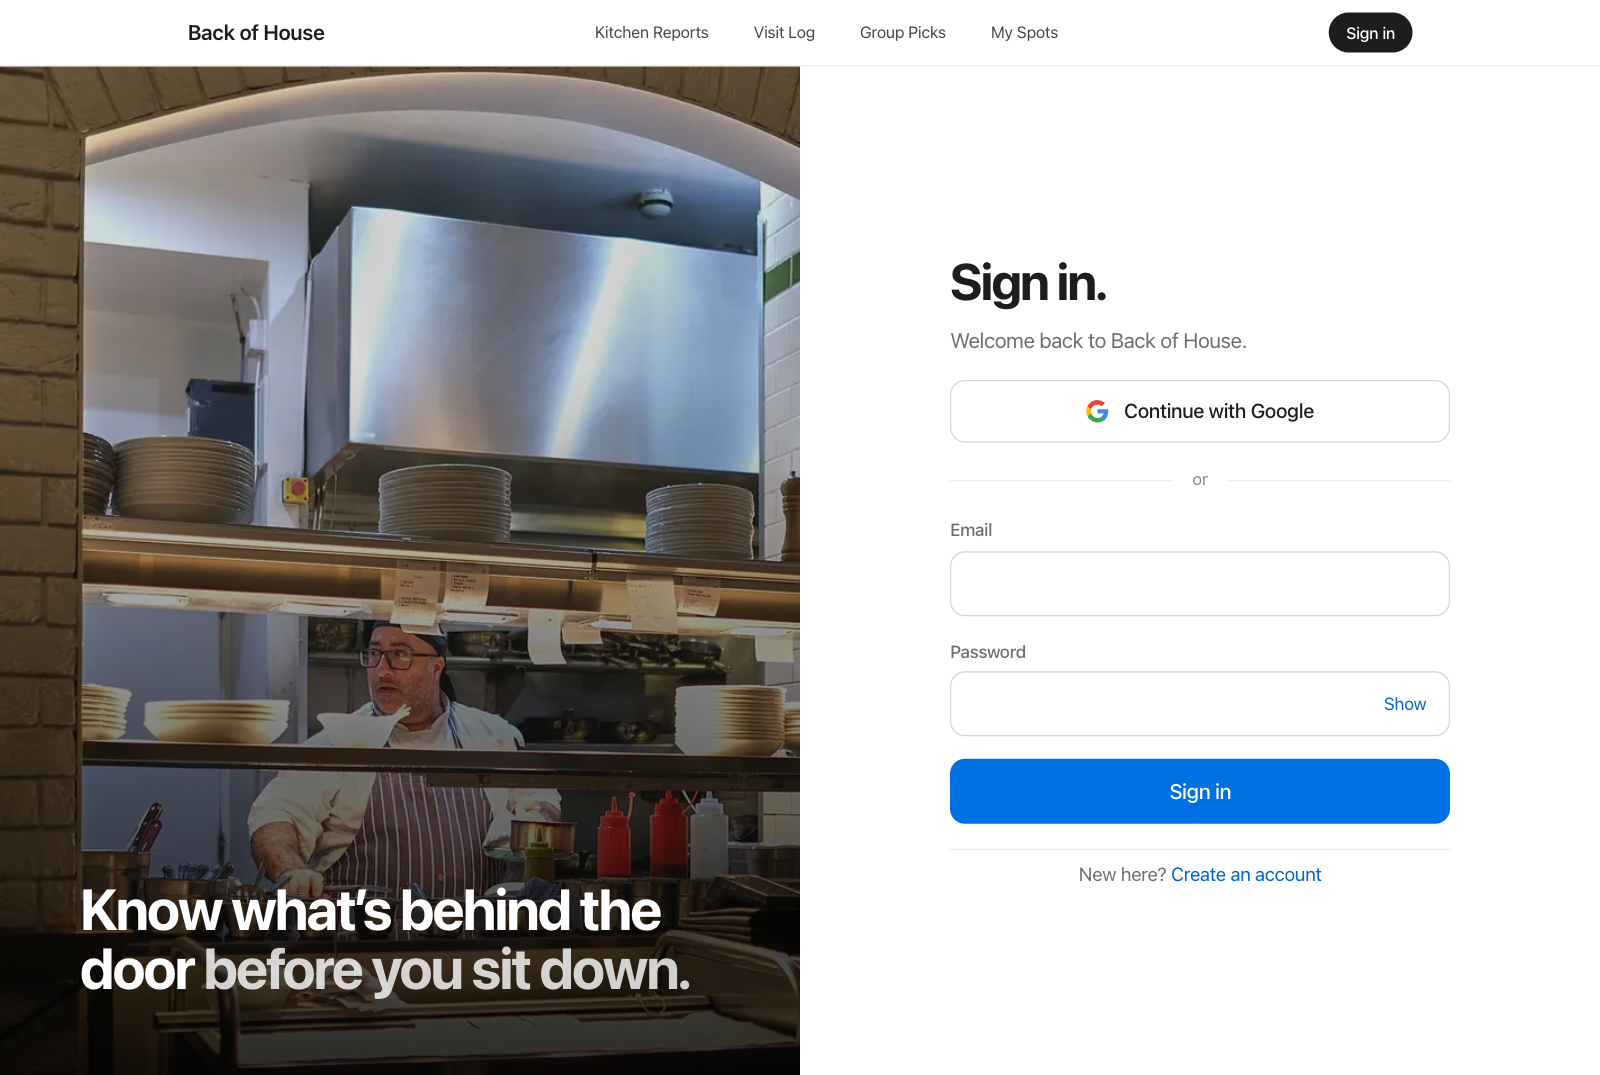
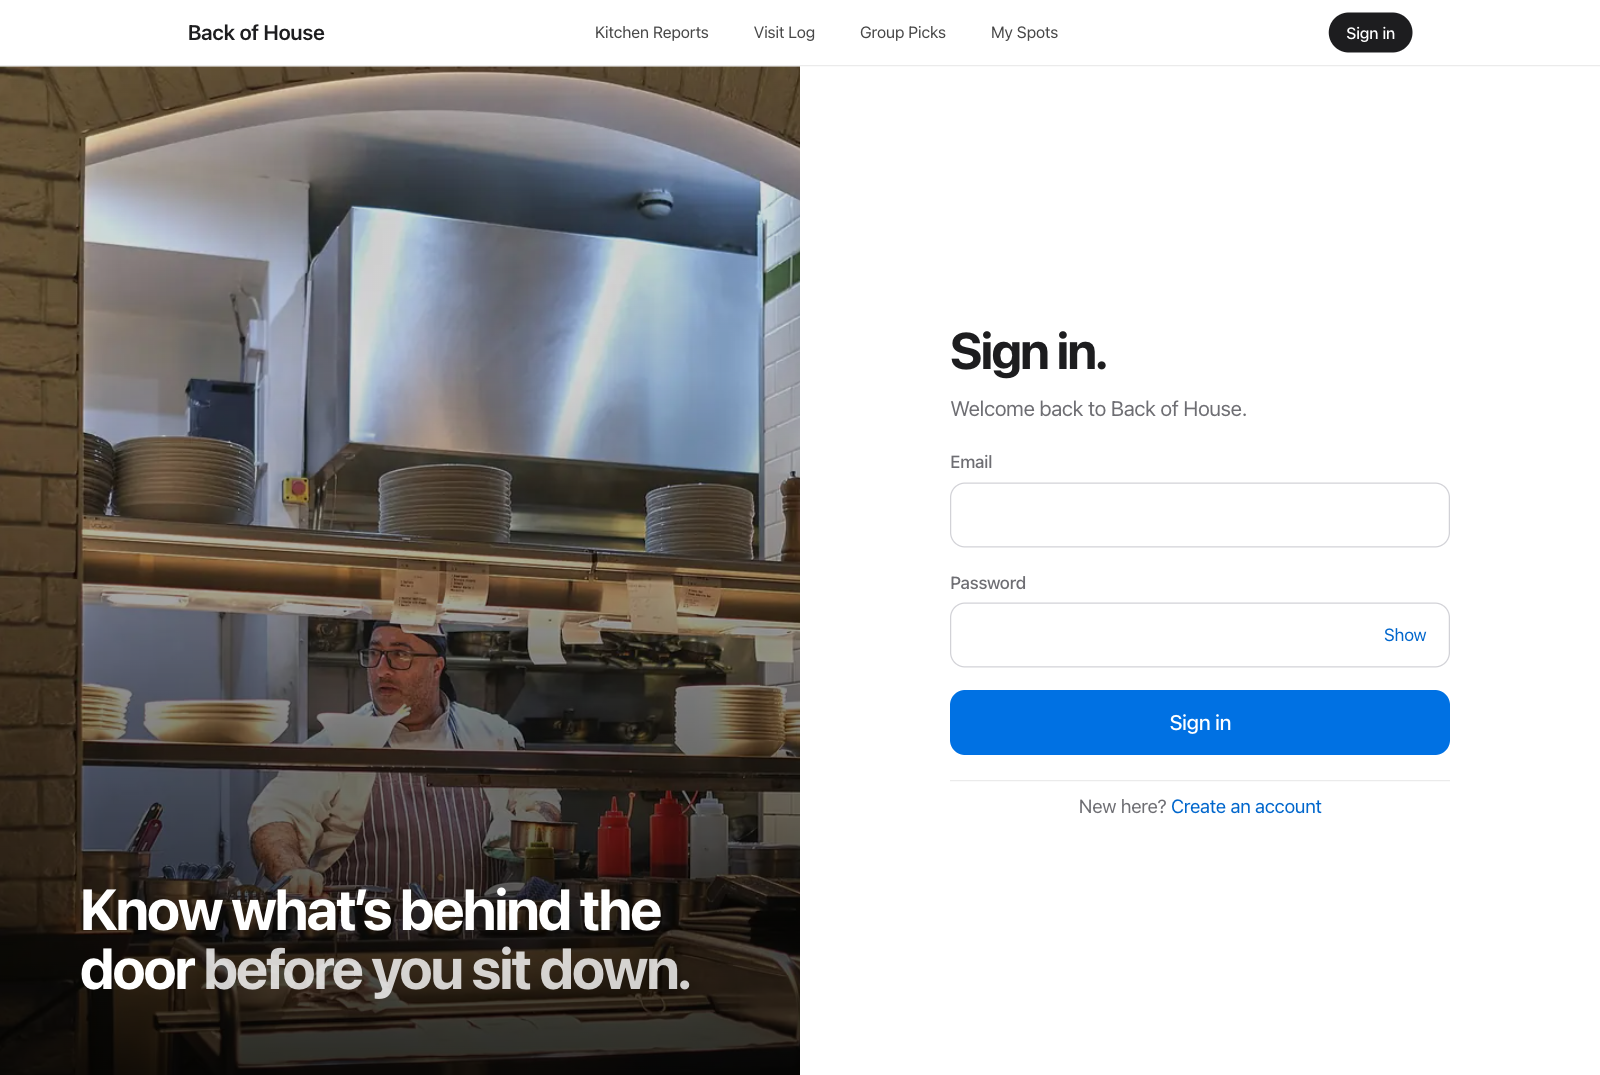
refactor(auth): remove Google sign-in; email + code only

diff --git a/backend/src/features/auth/auth.routes.js b/backend/src/features/auth/auth.routes.js
@@ -1,11 +1,10 @@
 import bcrypt from 'bcryptjs';
 import { Router } from 'express';
 
-import { parseEmailOnly, parseRegister, parseVerify, safeNext } from './auth.validation.js';
-import { authorizationUrl, newState, userFromGoogleCode } from './google.js';
+import { parseEmailOnly, parseRegister, parseVerify } from './auth.validation.js';
 import { createUser, findByEmail, toPublicUser, updateUser } from './users.repository.js';
 import { checkVerificationCode, sendVerificationCode } from './verification.js';
-import { isGoogleEnabled, isMailEnabled } from '../../config/env.js';
+import { isMailEnabled } from '../../config/env.js';
 import passport from '../../config/passport.js';
 import { HttpError, conflict, unauthorized } from '../../lib/errors.js';
 
@@ -29,7 +28,7 @@ async function sendCodeUnlessRecent(user) {
 
 // Which sign-in options this server supports, so the UI can adapt.
 router.get('/providers', (_req, res) => {
-  res.json({ google: isGoogleEnabled, emailDelivery: isMailEnabled ? 'email' : 'console' });
+  res.json({ emailDelivery: isMailEnabled ? 'email' : 'console' });
 });
 
 // Create (or re-create, if never verified) an email account and send a code. No login yet.
@@ -105,30 +104,6 @@ router.post('/logout', (req, res, next) => {
 // Returns { user: null } when logged out (not a 401) so the app can boot quietly.
 router.get('/me', (req, res) => {
   res.json({ user: req.user ?? null });
-});
-
-// ---- Google
-router.get('/google', (req, res) => {
-  if (!isGoogleEnabled) return res.redirect('/login?error=google-unavailable');
-  const state = newState();
-  req.session.oauth = { state, next: safeNext(req.query.next) };
-  return req.session.save(() => res.redirect(authorizationUrl(state)));
-});
-
-router.get('/google/callback', async (req, res) => {
-  const saved = req.session.oauth;
-  delete req.session.oauth;
-  if (!saved || req.query.state !== saved.state || typeof req.query.code !== 'string') {
-    return res.redirect('/login?error=google');
-  }
-  try {
-    const user = await userFromGoogleCode(req.query.code);
-    await logIn(req, toPublicUser(user));
-    return res.redirect(saved.next);
-  } catch (err) {
-    console.error('Google sign-in failed:', err.message);
-    return res.redirect('/login?error=google');
-  }
 });
 
 export default router;

diff --git a/frontend/src/features/auth/pages/LoginPage.jsx b/frontend/src/features/auth/pages/LoginPage.jsx
@@ -1,32 +1,22 @@
 import { useState } from 'react';
-import { Link, useLocation, useNavigate, useSearchParams } from 'react-router-dom';
+import { Link, useLocation, useNavigate } from 'react-router-dom';
 
 import { useAuth } from '../../../hooks/useAuth.js';
-import { useAuthProviders } from '../../../hooks/useAuthProviders.js';
 import { useDocumentTitle } from '../../../hooks/useDocumentTitle.js';
-import AuthDivider from '../components/AuthDivider.jsx';
 import AuthShell from '../components/AuthShell.jsx';
 import FormAlert from '../components/FormAlert.jsx';
-import GoogleButton from '../components/GoogleButton.jsx';
 import PasswordField from '../components/PasswordField.jsx';
 import SubmitButton from '../components/SubmitButton.jsx';
 import TextField from '../components/TextField.jsx';
 import './LoginPage.css';
 
-const GOOGLE_ERRORS = {
-  google: 'Google sign-in didn’t finish. Try again, or use your email.',
-  'google-unavailable': 'Google sign-in isn’t set up on this server yet. Use your email for now.',
-};
-
 export default function LoginPage() {
   useDocumentTitle('Sign in');
   const { login } = useAuth();
-  const { showGoogle } = useAuthProviders();
   const navigate = useNavigate();
   const location = useLocation();
-  const [params] = useSearchParams();
   const next = location.state?.from?.pathname ?? '/restaurants';
-  const [error, setError] = useState(GOOGLE_ERRORS[params.get('error')] ?? null);
+  const [error, setError] = useState(null);
   const [busy, setBusy] = useState(false);
 
   async function handleSubmit(e) {
@@ -59,12 +49,6 @@ export default function LoginPage() {
       }
     >
       {error && <FormAlert>{error}</FormAlert>}
-      {showGoogle && (
-        <>
-          <GoogleButton next={next} />
-          <AuthDivider />
-        </>
-      )}
       <form className="login-page__form" onSubmit={handleSubmit}>
         <TextField label="Email" name="email" type="email" autoComplete="email" required />
         <PasswordField autoComplete="current-password" />

diff --git a/frontend/src/features/auth/pages/RegisterPage.jsx b/frontend/src/features/auth/pages/RegisterPage.jsx
@@ -2,12 +2,9 @@ import { useState } from 'react';
 import { Link, useNavigate } from 'react-router-dom';
 
 import { useAuth } from '../../../hooks/useAuth.js';
-import { useAuthProviders } from '../../../hooks/useAuthProviders.js';
 import { useDocumentTitle } from '../../../hooks/useDocumentTitle.js';
-import AuthDivider from '../components/AuthDivider.jsx';
 import AuthShell from '../components/AuthShell.jsx';
 import FormAlert from '../components/FormAlert.jsx';
-import GoogleButton from '../components/GoogleButton.jsx';
 import PasswordField from '../components/PasswordField.jsx';
 import SubmitButton from '../components/SubmitButton.jsx';
 import TextField from '../components/TextField.jsx';
@@ -16,7 +13,6 @@ import './RegisterPage.css';
 export default function RegisterPage() {
   useDocumentTitle('Create account');
   const { register } = useAuth();
-  const { showGoogle } = useAuthProviders();
   const navigate = useNavigate();
   const [error, setError] = useState(null);
   const [fieldErrors, setFieldErrors] = useState({});
@@ -53,12 +49,6 @@ export default function RegisterPage() {
       }
     >
       {error && <FormAlert>{error}</FormAlert>}
-      {showGoogle && (
-        <>
-          <GoogleButton label="Sign up with Google" />
-          <AuthDivider />
-        </>
-      )}
       <form className="register-page__form" onSubmit={handleSubmit} noValidate>
         <TextField
           label="Name"

diff --git a/backend/src/features/auth/users.repository.js b/backend/src/features/auth/users.repository.js
@@ -4,14 +4,7 @@ import { getDb } from '../../db/connection.js';
 import { COLLECTIONS } from '../../db/collections.js';
 
 export const usersIndexes = {
-  [COLLECTIONS.users]: [
-    { key: { email: 1 }, unique: true },
-    {
-      key: { googleId: 1 },
-      unique: true,
-      partialFilterExpression: { googleId: { $type: 'string' } },
-    },
-  ],
+  [COLLECTIONS.users]: [{ key: { email: 1 }, unique: true }],
 };
 
 const collection = () => getDb().collection(COLLECTIONS.users);
@@ -32,17 +25,12 @@ export function findById(id) {
   return collection().findOne({ _id: new ObjectId(id) });
 }
 
-export function findByGoogleId(googleId) {
-  return collection().findOne({ googleId });
-}
-
 export async function createUser(fields) {
   const now = new Date();
   const doc = {
     email: normalizeEmail(fields.email),
     displayName: fields.displayName.trim(),
-    passwordHash: fields.passwordHash ?? null,
-    googleId: fields.googleId ?? null,
+    passwordHash: fields.passwordHash,
     emailVerified: Boolean(fields.emailVerified),
     verification: fields.verification ?? null,
     createdAt: now,

diff --git a/frontend/src/api/auth.js b/frontend/src/api/auth.js
@@ -1,7 +1,7 @@
 import { request } from './client.js';
 
 export const getMe = (signal) => request('/auth/me', { signal });
-// -> { google: boolean, emailDelivery: 'email' | 'console' }
+// -> { emailDelivery: 'email' | 'console' }
 export const getProviders = (signal) => request('/auth/providers', { signal });
 // -> 202 { email, verificationRequired: true }
 export const register = (details) => request('/auth/register', { method: 'POST', body: details });
@@ -11,5 +11,3 @@ export const resendCode = (email) => request('/auth/resend', { method: 'POST', b
 // 403 with data.verificationRequired when the email isn't verified yet
 export const login = (credentials) => request('/auth/login', { method: 'POST', body: credentials });
 export const logout = () => request('/auth/logout', { method: 'POST' });
-export const googleSignInUrl = (next = '/restaurants') =>
-  `/api/auth/google?next=${encodeURIComponent(next)}`;

diff --git a/backend/src/config/env.js b/backend/src/config/env.js
@@ -18,12 +18,6 @@ export const env = Object.freeze({
   mongoUri: required('MONGODB_URI'),
   dbName: process.env.DB_NAME || 'back_of_house',
   sessionSecret: required('SESSION_SECRET'),
-  // Public URL of the site (where the browser is). Used for the Google redirect URI.
-  appUrl: (process.env.APP_URL || 'http://localhost:5173').replace(/\/$/, ''),
-  google: {
-    clientId: optional('GOOGLE_CLIENT_ID'),
-    clientSecret: optional('GOOGLE_CLIENT_SECRET'),
-  },
   mail: {
     brevoApiKey: optional('BREVO_API_KEY'),
     from: optional('MAIL_FROM'),
@@ -31,5 +25,4 @@ export const env = Object.freeze({
   },
 });
 
-export const isGoogleEnabled = Boolean(env.google.clientId && env.google.clientSecret);
 export const isMailEnabled = Boolean(env.mail.brevoApiKey && env.mail.from);

diff --git a/backend/src/config/passport.js b/backend/src/config/passport.js
@@ -8,10 +8,7 @@ passport.use(
   new LocalStrategy({ usernameField: 'email' }, async (email, password, done) => {
     try {
       const user = await findByEmail(email);
-      if (user && !user.passwordHash) {
-        return done(null, false, { message: 'This account uses Google. Continue with Google.' });
-      }
-      const ok = user && (await bcrypt.compare(password, user.passwordHash));
+      const ok = user?.passwordHash && (await bcrypt.compare(password, user.passwordHash));
       if (!ok) return done(null, false, { message: 'Incorrect email or password' });
       if (!user.emailVerified) {
         return done(null, false, { message: 'Verify your email first', unverified: user });

diff --git a/frontend/src/hooks/useAuthProviders.js b/frontend/src/hooks/useAuthProviders.js
@@ -1,12 +1,8 @@
 import { getProviders } from '../api/auth.js';
 import { useFetch } from './useFetch.js';
 
-// { google, emailDelivery } from the server. Google shows in dev even when not configured,
-// so the button can be tried; in production it only shows when the server supports it.
+// { emailDelivery } from the server: whether codes go out by email or print in the dev terminal.
 export function useAuthProviders() {
   const { data } = useFetch(getProviders);
-  return {
-    showGoogle: Boolean(data?.google) || import.meta.env.DEV,
-    codesInConsole: data?.emailDelivery === 'console',
-  };
+  return { codesInConsole: data?.emailDelivery === 'console' };
 }

diff --git a/backend/src/features/auth/auth.validation.js b/backend/src/features/auth/auth.validation.js
@@ -36,10 +36,3 @@ export function parseEmailOnly(body) {
   v.done();
   return { email };
 }
-
-// Only allow same-site relative paths as post-login destinations.
-export function safeNext(value) {
-  return typeof value === 'string' && value.startsWith('/') && !value.startsWith('//')
-    ? value
-    : '/restaurants';
-}

diff --git a/docs/PROJECT_PLAN.md b/docs/PROJECT_PLAN.md
@@ -68,15 +68,15 @@ Frontend routes: `/` intro (kitchen door) · `/restaurants` · `/restaurants/:id
 
 ## 3. Data model
 
-| Collection    | Owner | Key fields                                                                                                                                                              | CRUD          |
-| ------------- | ----- | ----------------------------------------------------------------------------------------------------------------------------------------------------------------------- | ------------- |
-| `users`       | H     | `email` (unique, lowercase), `displayName`, `passwordHash` (null for Google-only), `googleId`, `emailVerified`, `verification{ codeHash, expiresAt, sentAt, attempts }` | C R U         |
-| `restaurants` | H     | `licenseNo` (unique), `name`, `address`, `neighborhood`, `zip`, `summary{ severityScore, trajectory, lastInspectionDate, lastResult }`                                  | R (seeded)    |
-| `inspections` | H     | `restaurantId`, `date`, `result`, `severityScore`, `violations[{ code, level, plain, description, category, comments }]`                                                | R (seeded)    |
-| `visits`      | H     | `userId`, `restaurantId`, `visitDate`, `dish`, `rating` 1–5, `notes`, timestamps                                                                                        | **full CRUD** |
-| `polls`       | A     | `creatorId`, `creatorName`, `title`, `restaurantIds[]`, `votes[{ userId, restaurantId, votedAt }]`, timestamps                                                          | **full CRUD** |
-| `spots`       | A     | `userId`, `name`, `description`, `items[{ restaurantId, note, addedAt }]`, timestamps                                                                                   | **full CRUD** |
-| `sessions`    | n/a   | managed by connect-mongo                                                                                                                                                | n/a           |
+| Collection    | Owner | Key fields                                                                                                                             | CRUD          |
+| ------------- | ----- | -------------------------------------------------------------------------------------------------------------------------------------- | ------------- |
+| `users`       | H     | `email` (unique, lowercase), `displayName`, `passwordHash`, `emailVerified`, `verification{ codeHash, expiresAt, sentAt, attempts }`   | C R U         |
+| `restaurants` | H     | `licenseNo` (unique), `name`, `address`, `neighborhood`, `zip`, `summary{ severityScore, trajectory, lastInspectionDate, lastResult }` | R (seeded)    |
+| `inspections` | H     | `restaurantId`, `date`, `result`, `severityScore`, `violations[{ code, level, plain, description, category, comments }]`               | R (seeded)    |
+| `visits`      | H     | `userId`, `restaurantId`, `visitDate`, `dish`, `rating` 1–5, `notes`, timestamps                                                       | **full CRUD** |
+| `polls`       | A     | `creatorId`, `creatorName`, `title`, `restaurantIds[]`, `votes[{ userId, restaurantId, votedAt }]`, timestamps                         | **full CRUD** |
+| `spots`       | A     | `userId`, `name`, `description`, `items[{ restaurantId, note, addedAt }]`, timestamps                                                  | **full CRUD** |
+| `sessions`    | n/a   | managed by connect-mongo                                                                                                               | n/a           |
 
 - `restaurants.summary` is precomputed by the seed, so lists and comparisons need no joins.
 - Violation `level`: `Minor` | `Moderate` | `Serious` (from the dataset's `*` / `**` / `***`).
@@ -107,14 +107,13 @@ Errors are always `{ error, details? }` with 400 / 401 / 403 / 404 / 409 / 500.
 
 | Method             | Path                                                           | Auth | Owner | Response                                                                                                                                          |
 | ------------------ | -------------------------------------------------------------- | ---- | ----- | ------------------------------------------------------------------------------------------------------------------------------------------------- |
-| GET                | `/api/auth/providers`                                          | –    | H     | `{ google, emailDelivery }`                                                                                                                       |
+| GET                | `/api/auth/providers`                                          | –    | H     | `{ emailDelivery }`                                                                                                                               |
 | POST               | `/api/auth/register`                                           | –    | H     | `{ displayName, email, password }` → 202 `{ email, verificationRequired }` (emails a 6-digit code)                                                |
 | POST               | `/api/auth/verify`                                             | –    | H     | `{ email, code }` → `{ user }` (signs in)                                                                                                         |
 | POST               | `/api/auth/resend`                                             | –    | H     | `{ email }` → `{ ok }` (60 s cooldown)                                                                                                            |
 | POST               | `/api/auth/login`                                              | –    | H     | `{ email, password }` → `{ user }`; 403 `{ verificationRequired }` if unverified                                                                  |
 | POST               | `/api/auth/logout`                                             | ✓    | H     | 204                                                                                                                                               |
 | GET                | `/api/auth/me`                                                 | –    | H     | `{ user \| null }`                                                                                                                                |
-| GET                | `/api/auth/google?next=`                                       | –    | H     | Redirects to Google; callback signs in and redirects to `next`                                                                                    |
 | GET                | `/api/restaurants?q&neighborhood&trajectory&sort&cursor&limit` | –    | H     | `{ items, total, nextCursor }` (cursor pagination; `total` on the first page only)                                                                |
 | GET                | `/api/restaurants/suggest?q=`                                  | –    | H     | `{ suggestions: [{ _id, name, neighborhood, summary }] }` (autocomplete)                                                                          |
 | GET                | `/api/restaurants/heatmap`                                     | –    | H     | `{ hoods, points: [[lng, lat, hood]], quarters: [{ label, cells: [point, score, …] }] }` (Kitchen Weather dot map; built once per server process) |

diff --git a/docs/tasks/harshitha.md b/docs/tasks/harshitha.md
@@ -10,7 +10,7 @@ Estimate: **~31 h** (Ayush: ~30 h). Tick tasks here as you finish them.
 | H-0  | Repo scaffold, ESLint/Prettier, CI, CODEOWNERS                                                               | 3 h  | ✅ Done                              |
 | H-1  | Auth: Passport local, sessions in MongoDB, register/login/logout/me, `ProtectedRoute`                        | 3 h  | ✅ Done                              |
 | H-2  | Intro page + design system + shared components                                                               | 4 h  | ✅ Done                              |
-| H-2b | Email sign-up with 6-digit verification + Continue with Google (no new libraries)                            | 3 h  | ✅ Done                              |
+| H-2b | Email sign-up with 6-digit verification code (no new libraries)                                              | 3 h  | ✅ Done                              |
 | H-3  | Seed script: Analyze Boston API → `restaurants` + `inspections` (2–3k restaurants)                           | 4 h  | ✅ Done                              |
 | H-4  | Violation decoding table + severity score + trajectory                                                       | 4 h  | ✅ Done                              |
 | H-5  | `GET /api/restaurants` (search, neighborhood, trajectory, paging) + `/neighborhoods`                         | 3 h  | ✅ Done                              |

diff --git a/THIRD_PARTY_NOTICES.md b/THIRD_PARTY_NOTICES.md
@@ -30,5 +30,3 @@ Resized and converted to WebP. Adapted images keep their original license.
 
 - **Inter**, loaded from Google Fonts, is licensed under the
   [SIL Open Font License 1.1](https://openfontlicense.org/). Apple devices use the system font.
-- The **Google "G" logo** in the "Continue with Google" button is a trademark of Google LLC,
-  used as described in Google’s sign-in branding guidelines.
